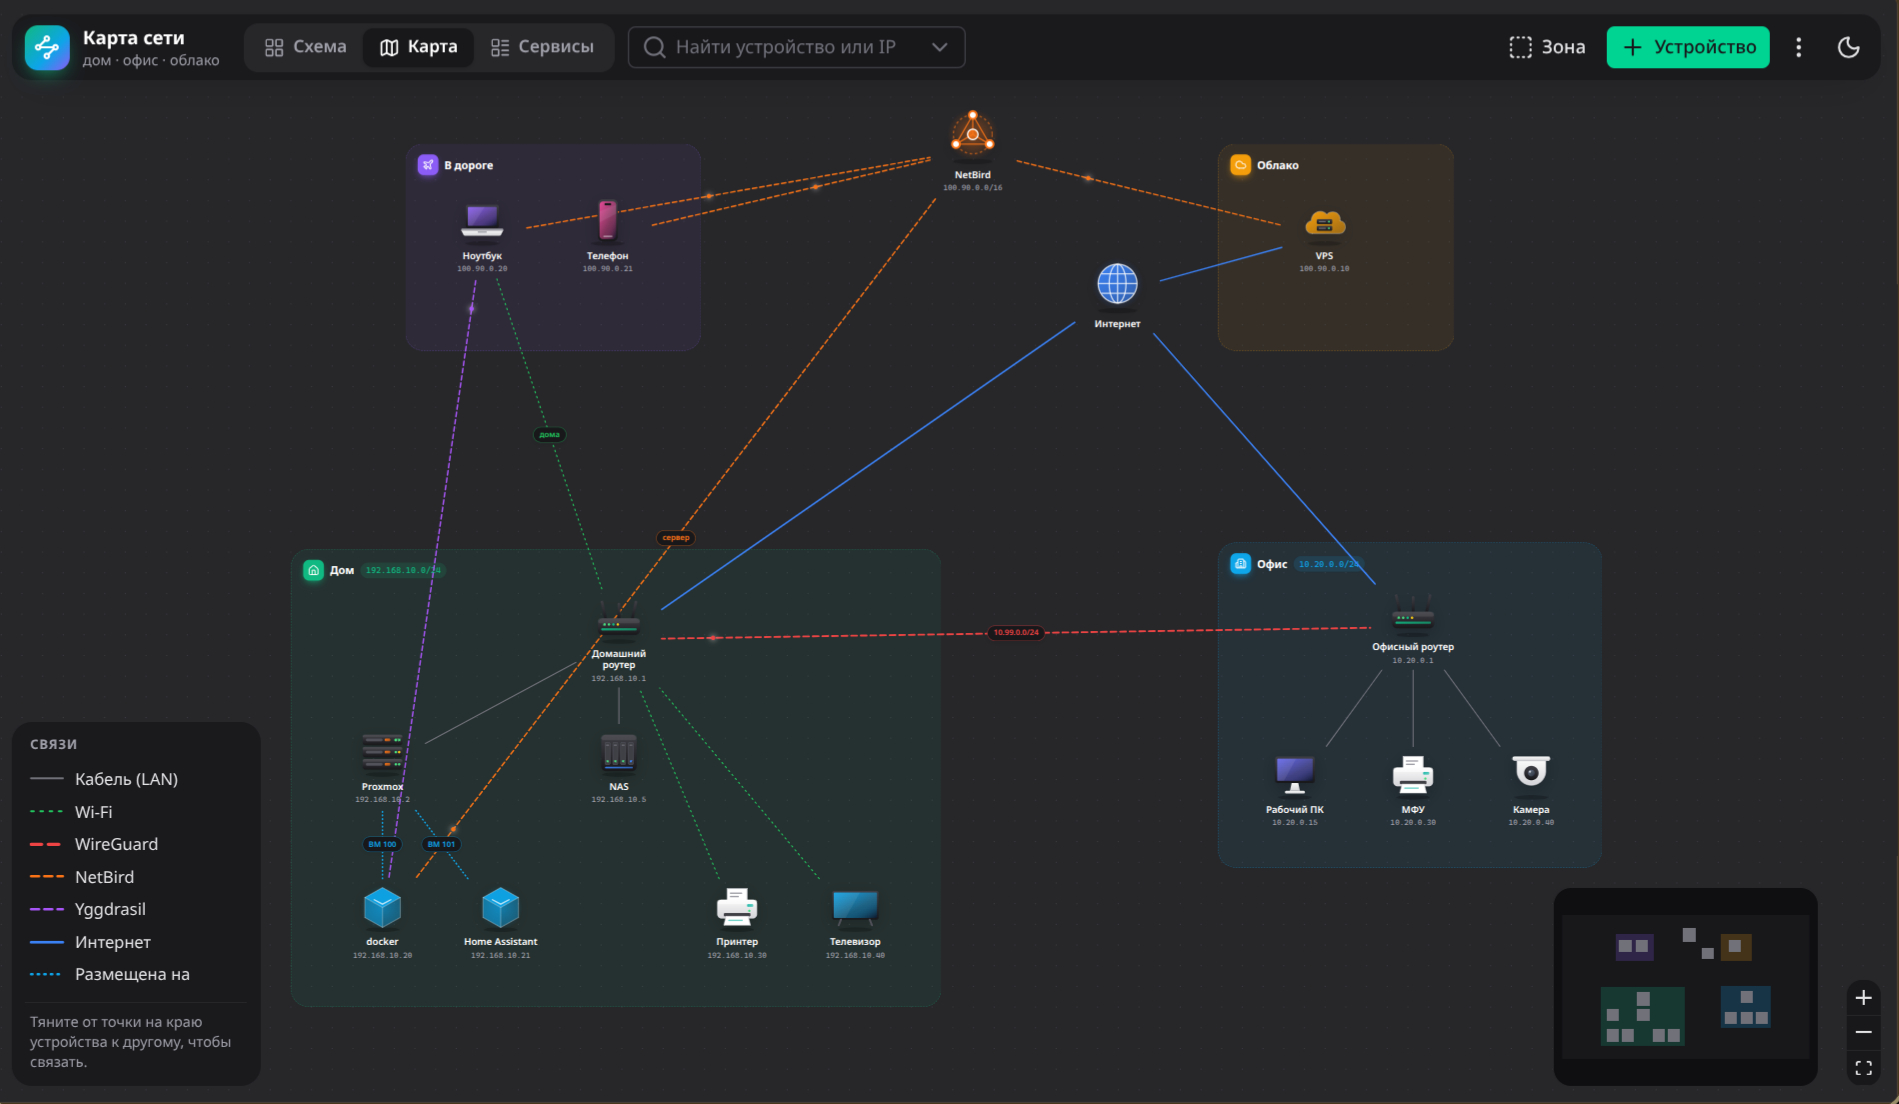
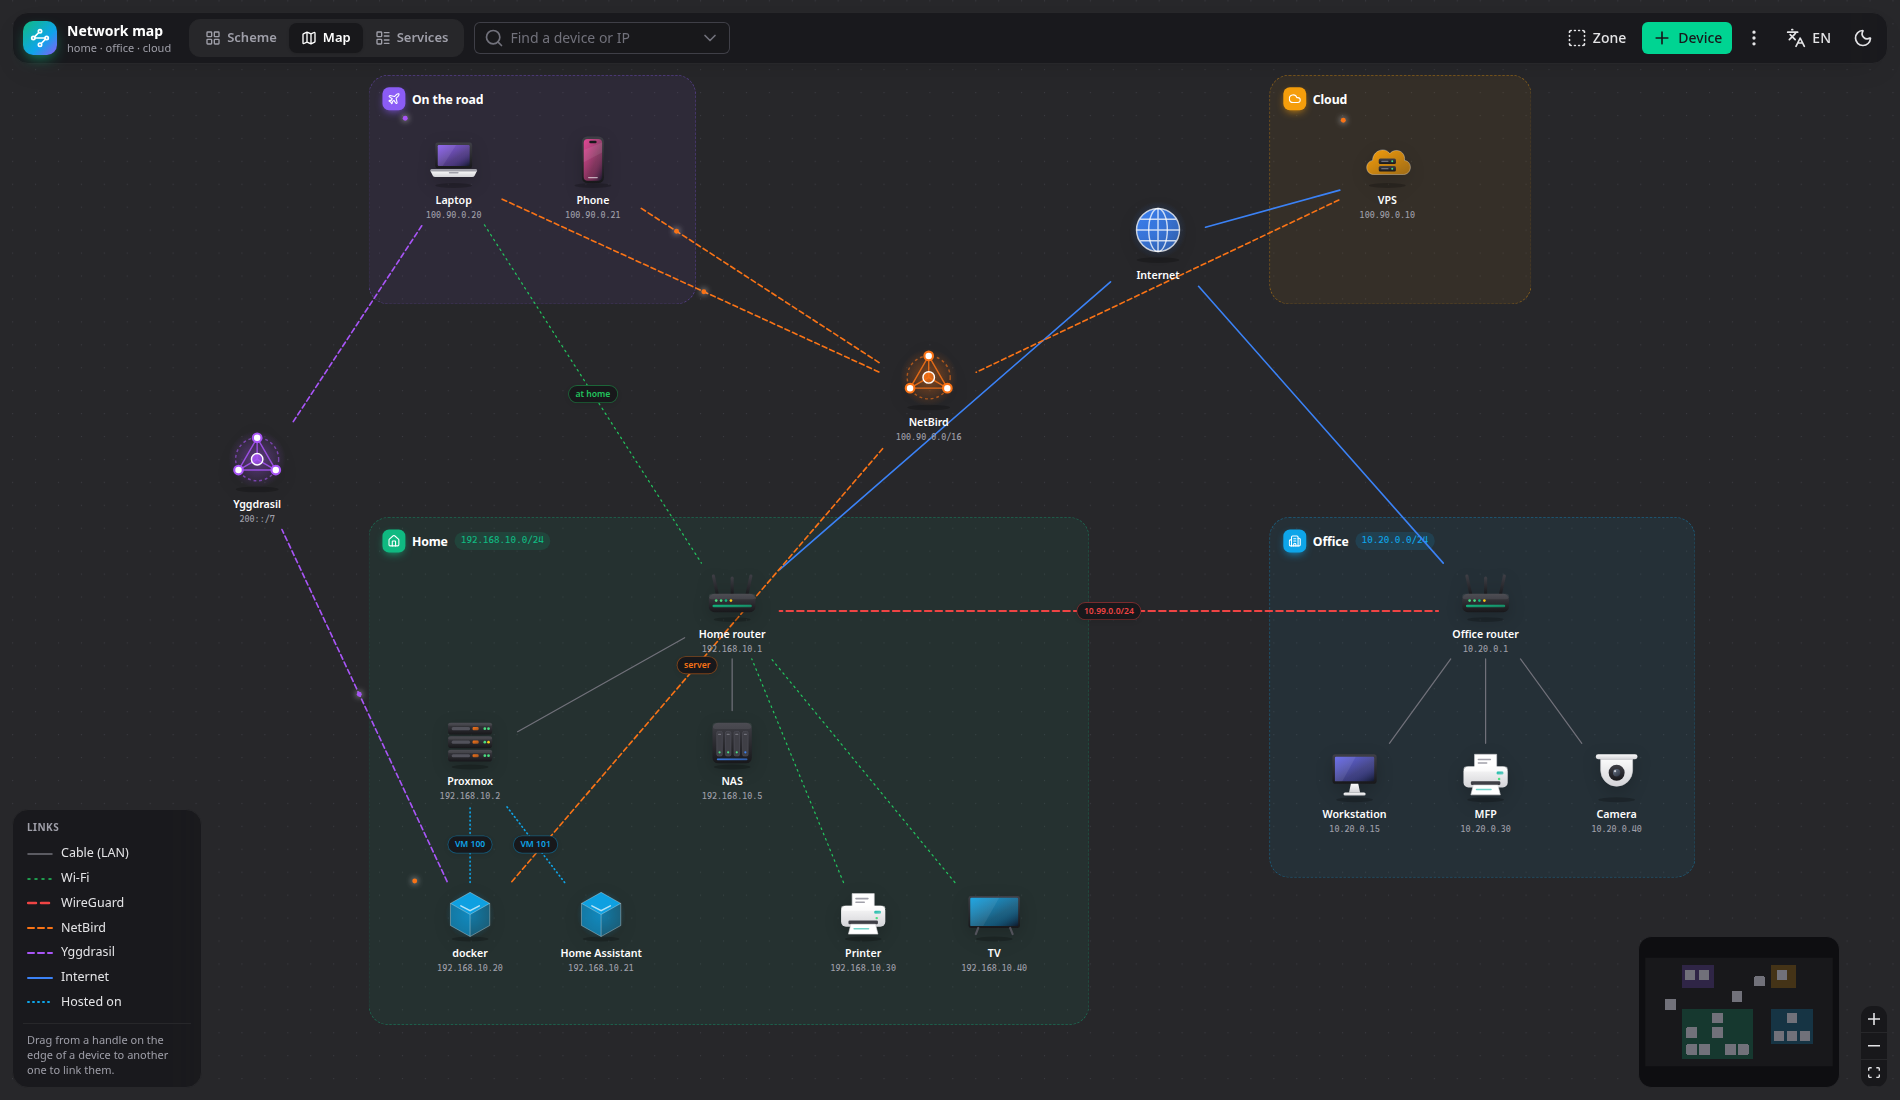
ui: language dropdown showing the current one; demo network in English with Yggdrasil
The EN / RU button showed the language it would switch to, which read
backwards. Now the button shows the current language and opens a list
with it ticked. The demo network is translated, gains a Yggdrasil overlay
(laptop and docker), and the README screenshot is retaken in English.

diff --git a/app/pages/index.vue b/app/pages/index.vue
@@ -345,6 +345,11 @@ const menu = computed(() => [[
   { label: t('Load JSON…', 'Загрузить JSON…'), icon: 'i-lucide-upload', onSelect: () => importInput.value?.click() },
 ]])
 
+// The current language is the one ticked; the button shows its code.
+const langMenu = computed(() => [([['en', 'English'], ['ru', 'Русский']] as const).map(([l, label]) => ({
+  label, type: 'checkbox' as const, checked: lang.value === l, onUpdateChecked: () => setLang(l),
+}))])
+
 // ── restore from a backup ───────────────────────────────────────────────
 const importInput = ref<HTMLInputElement>()
 const importModal = reactive({ open: false, name: '', data: null as NetworkData | null, busy: false })
@@ -433,11 +438,9 @@ const usedKinds = computed(() => (Object.keys(linkKinds) as LinkKind[]).filter(k
         <UDropdownMenu :items="menu" :content="{ align: 'end' }">
           <UButton icon="i-lucide-ellipsis-vertical" color="neutral" variant="ghost" />
         </UDropdownMenu>
-        <UButton
-          :label="lang === 'ru' ? 'EN' : 'RU'" :title="t('Русский', 'English')"
-          color="neutral" variant="ghost" class="font-semibold"
-          @click="setLang(lang === 'ru' ? 'en' : 'ru')"
-        />
+        <UDropdownMenu :items="langMenu" :content="{ align: 'end' }">
+          <UButton icon="i-lucide-languages" :label="lang.toUpperCase()" :title="t('Interface language', 'Язык интерфейса')" color="neutral" variant="ghost" />
+        </UDropdownMenu>
         <UButton
           :icon="colorMode.value === 'dark' ? 'i-lucide-moon' : 'i-lucide-sun'"
           color="neutral" variant="ghost"

diff --git a/README.ru.md b/README.ru.md
@@ -7,8 +7,8 @@
 
 Nuxt 4 · Nuxt UI 4 · Vue Flow · SQLite (`node:sqlite` из Node 24, без нативных модулей).
 
-Интерфейс на английском или русском: переключается кнопкой EN / RU в верхней
-панели, выбор запоминается в браузере. По умолчанию — английский.
+Интерфейс на английском или русском: выбирается в меню языка в верхней панели,
+выбор запоминается в браузере. По умолчанию — английский.
 
 ![Карта с демо-сетью](docs/screenshot.png)
 

diff --git a/README.md b/README.md
@@ -7,8 +7,8 @@ An interactive map of a home, office and cloud network: devices, zones, links
 
 Nuxt 4 · Nuxt UI 4 · Vue Flow · SQLite (`node:sqlite` from Node 24, no native modules).
 
-The interface is in English or Russian: the EN / RU button in the top bar
-switches it, and the choice is remembered in the browser.
+The interface is in English or Russian: pick it from the language menu in the
+top bar; the choice is remembered in the browser.
 
 ![The map with the demo network](docs/screenshot.png)
 
